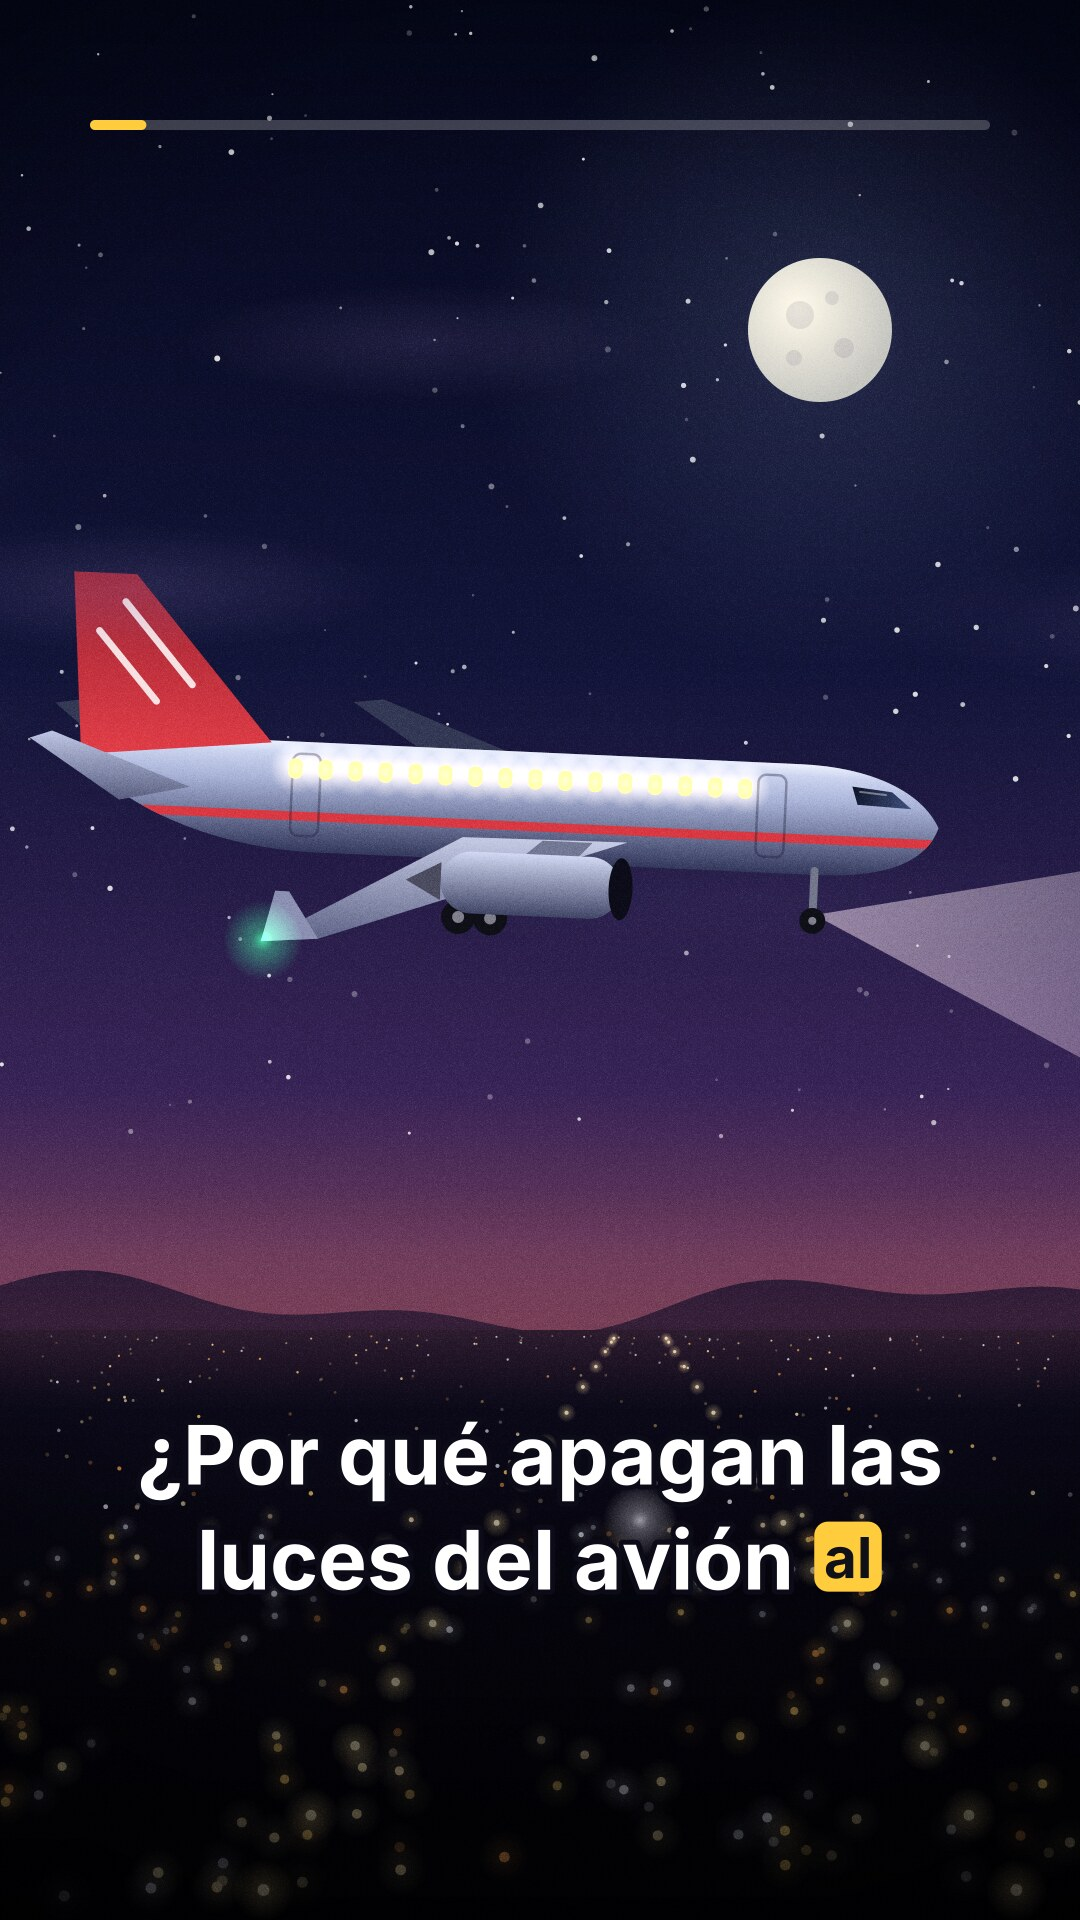
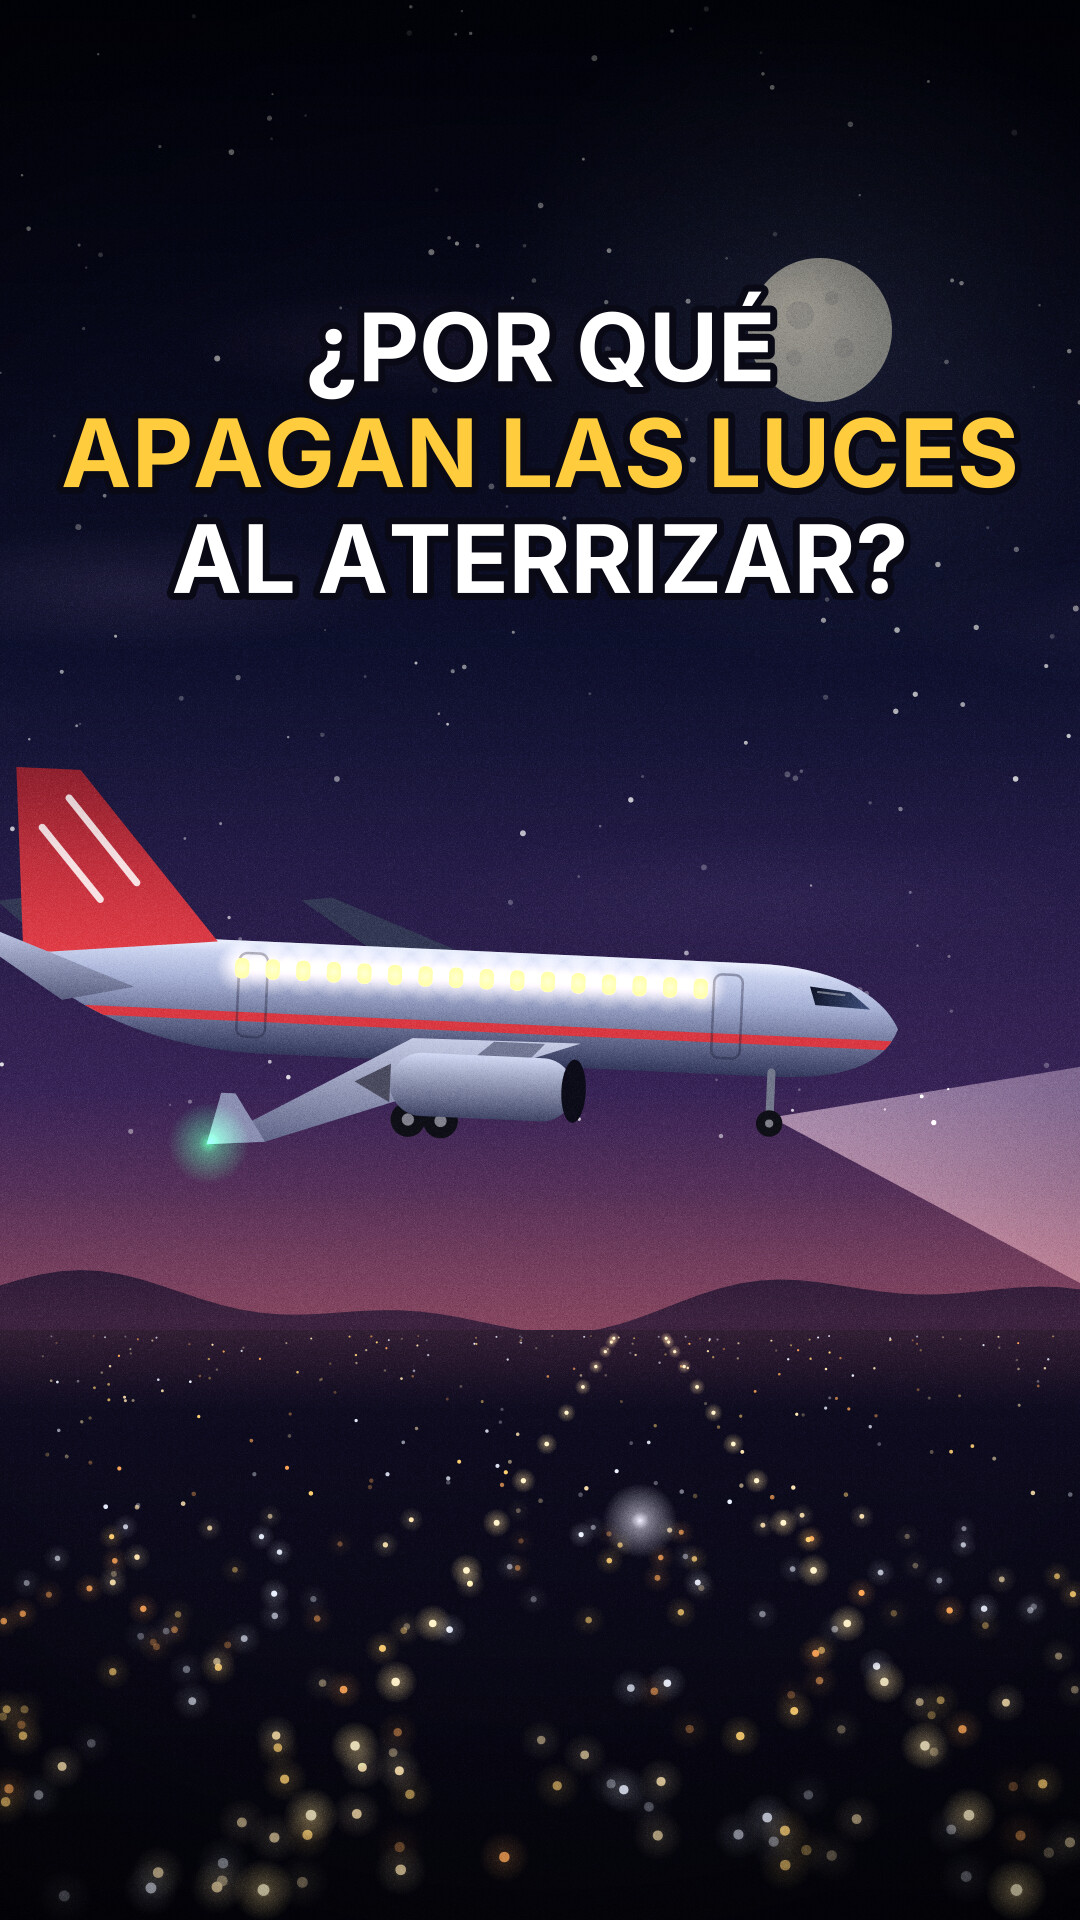
Añadir portadas con título, foto de perfil, kit del perfil y textos de los posts revisados
Claude-Session: https://claude.ai/code/session_01JYfv4g7AGpkwsmKFZgCm2X

diff --git a/video/portadas.py b/video/portadas.py
@@ -1,0 +1,130 @@
+"""Portadas de los vídeos (1080x1920) y foto de perfil (1080x1080).
+
+El título va dentro de la franja central 3:4 (y 240-1680), que es lo que enseña la cuadrícula del perfil.
+Uso: python3 video/portadas.py  ->  video/out/<vídeo>/portada.jpg y video/out/perfil/foto-perfil.png
+"""
+import math
+import os
+import subprocess
+
+import cairo
+
+import avion_luces as av
+import tierra_agujero as ti
+from engine import FONT, H, W
+from rich import YELLOW, glow, linear, make_grain, radial, text
+
+HERE = os.path.dirname(os.path.abspath(__file__))
+
+
+def finish(ctx, grain, w=W, h=H, top_shade=True):
+    """Viñeta, oscurecido arriba para el título y grano, como en los vídeos."""
+    ctx.rectangle(0, 0, w, h)
+    ctx.set_source(radial(w / 2, h * 0.5, max(w, h) * 0.62, [(0, (0, 0, 0, 0)), (0.6, (0, 0, 0, 0)), (1, (0, 0, 0, 0.55))]))
+    ctx.fill()
+    if top_shade:
+        ctx.rectangle(0, 0, w, h * 0.45)
+        ctx.set_source(linear(0, 0, 0, h * 0.45, [(0, (0, 0, 0, 0.55)), (0.7, (0, 0, 0, 0.25)), (1, (0, 0, 0, 0))]))
+        ctx.fill()
+    pat = cairo.SurfacePattern(grain)
+    pat.set_extend(cairo.EXTEND_REPEAT)
+    ctx.save()
+    ctx.set_operator(cairo.OPERATOR_SOFT_LIGHT)
+    ctx.set_source(pat)
+    ctx.paint_with_alpha(0.28)
+    ctx.restore()
+
+
+def title(ctx, lines, top, max_w=960, max_size=124):
+    """lines: [(texto, resaltado)]. Un solo tamaño para todas las líneas, el mayor que quepa."""
+    ctx.select_font_face(FONT, cairo.FONT_SLANT_NORMAL, cairo.FONT_WEIGHT_BOLD)
+    ctx.set_font_size(100)
+    widest = max(ctx.text_extents(s).x_advance for s, _ in lines)
+    size = min(max_size, 100 * max_w / widest)
+    y = top + size / 2
+    for s, hi in lines:
+        text(ctx, s, W / 2, y + 6, size, col=(0, 0, 0, 0.45))
+        text(ctx, s, W / 2, y, size, col=YELLOW if hi else (1, 1, 1), outline=(0.04, 0.04, 0.09), ow=14)
+        y += size * 1.12
+
+
+def save_jpg(surf, path):
+    png = path.replace(".jpg", ".png")
+    surf.write_to_png(png)
+    subprocess.run(["convert", png, "-quality", "90", path], check=True)
+    os.remove(png)
+
+
+def cover_tierra(grain):
+    surf = cairo.ImageSurface(cairo.FORMAT_ARGB32, W, H)
+    ctx = cairo.Context(surf)
+    t = 2.6
+    ti.space(ctx, t)
+    ctx.save()
+    ctx.translate(0, 300)
+    ti.section(ctx, t)
+    ti.faller(ctx, t, 0.95)
+    ctx.restore()
+    finish(ctx, grain)
+    title(ctx, [("¿Y SI SALTAS", False), ("POR UN AGUJERO", False), ("QUE ATRAVIESA", False), ("LA TIERRA?", True)], 270)
+    save_jpg(surf, os.path.join(HERE, "out", "tierra-agujero", "portada.jpg"))
+
+
+def cover_avion(grain):
+    surf = cairo.ImageSurface(cairo.FORMAT_ARGB32, W, H)
+    ctx = cairo.Context(surf)
+    t = 1.8
+    av.sky(ctx, t)
+    av.clouds(ctx, t)
+    av.ground(ctx, t, drift=t * 40)
+    av.runway(ctx, t)
+    av.plane(ctx, t, 470, 1010, s=1.02, rot=0.045)
+    av.clouds(ctx, t, front=True)
+    finish(ctx, grain)
+    title(ctx, [("¿POR QUÉ", False), ("APAGAN LAS LUCES", True), ("AL ATERRIZAR?", False)], 300)
+    save_jpg(surf, os.path.join(HERE, "out", "avion-luces", "portada.jpg"))
+
+
+def avatar(grain, size=1080):
+    """Interrogación amarilla cuyo punto es la Tierra: se lee incluso a 110 px."""
+    surf = cairo.ImageSurface(cairo.FORMAT_ARGB32, size, size)
+    ctx = cairo.Context(surf)
+    c = size / 2
+    ctx.rectangle(0, 0, size, size)
+    ctx.set_source(radial(c, c * 0.9, size * 0.75, [(0, (0.10, 0.10, 0.28)), (1, (0.01, 0.01, 0.05))]))
+    ctx.fill()
+    for x, y, r, ph in ti.STARS[:90]:
+        ctx.new_sub_path()
+        ctx.arc(x * size / W, y * size / H, r * 0.8, 0, 2 * math.pi)
+        ctx.set_source_rgba(1, 1, 1, 0.25 + 0.4 * (0.5 + 0.5 * math.sin(ph)))
+        ctx.fill()
+    glow(ctx, c, c * 0.80, size * 0.46, (1.0, 0.75, 0.2), 0.40, add=True)
+    # cuerpo de la interrogación
+    ctx.select_font_face(FONT, cairo.FONT_SLANT_NORMAL, cairo.FONT_WEIGHT_BOLD)
+    fs = size * 0.80
+    ctx.set_font_size(fs)
+    ext = ctx.text_extents("?")
+    ctx.save()
+    ctx.rectangle(0, 0, size, size * 0.64)  # sin el punto: lo sustituye el planeta
+    ctx.clip()
+    ctx.move_to(c - ext.x_advance / 2 - ext.x_bearing * 0.2, size * 0.78)
+    ctx.text_path("?")
+    ctx.set_source(linear(0, size * 0.18, 0, size * 0.64, [(0, (1.0, 0.93, 0.55)), (1, (1.0, 0.74, 0.16))]))
+    ctx.fill_preserve()
+    ctx.set_source_rgba(0.04, 0.04, 0.09, 1)
+    ctx.set_line_width(size * 0.012)
+    ctx.stroke()
+    ctx.restore()
+    ti.globe(ctx, 0.0, c + size * 0.005, size * 0.775, size * 0.10, rot=-10)
+    finish(ctx, grain, size, size, top_shade=False)
+    out = os.path.join(HERE, "out", "perfil")
+    os.makedirs(out, exist_ok=True)
+    surf.write_to_png(os.path.join(out, "foto-perfil.png"))
+
+
+if __name__ == "__main__":
+    grain, _keep = make_grain()
+    cover_tierra(grain)
+    cover_avion(grain)
+    avatar(grain)
+    print("OK")

diff --git a/video/tierra_agujero.py b/video/tierra_agujero.py
@@ -580,15 +580,15 @@ SCENES = [
     Scene("Síguenos para más curiosidades como esta.", s_cta, sfx=[(0.05, "pop"), (1.3, "pop")]),
 ]
 
-POST = """¿Qué pasaría si saltaras por un agujero que atraviesa la Tierra? 🌍🕳
+POST = """¿Y si saltaras por un agujero que atraviesa la Tierra? 🌍
 
-Sin aire que te frene, caerías cada vez más rápido y cruzarías el centro a más de 28.000 km/h. Allí no pesarías nada. Después irías frenando hasta asomar justo al otro lado… unos 38 minutos después. Y si nadie te agarra, volverías a caer una y otra vez.
+Caerías unos 38 minutos, cruzarías el centro a más de 28.000 km/h y asomarías justo por el otro lado… si no hubiera aire en el túnel. Y si nadie te agarra, volverías a caer una y otra vez.
 
-El problema: el agujero más profundo que hemos hecho, el pozo de Kola, solo llega a 12 km de los 6.371 que hay hasta el centro. Y allí abajo hace tanto calor como en la superficie del Sol.
+El problema: el agujero más profundo que existe, el pozo de Kola, solo llega a 12 km. Hasta el centro hay 6.371.
 
-Síguenos para más curiosidades 👀
+¿Te tirarías? 👇
 
-#curiosidades #ciencia #sabiasque #fisica #datoscuriosos
+#curiosidades #ciencia #fisica #espacio #sabiasque
 """
 
 if __name__ == "__main__":

diff --git a/video/avion_luces.py b/video/avion_luces.py
@@ -701,13 +701,13 @@ SCENES = [
 
 POST = """¿Por qué apagan las luces del avión al aterrizar de noche? ✈
 
-No es para que duermas: si hubiera que evacuar, tus ojos ya estarían acostumbrados a la oscuridad. Si la luz se apaga de golpe, tardan varios minutos en adaptarse.
+No es para que duermas. Si hubiera que evacuar, tus ojos ya estarían acostumbrados a la oscuridad: si la luz se va de golpe, tardan varios minutos en adaptarse.
 
-Por eso también te piden subir la persiana: así se ve si fuera hay algún peligro. Y las luces del suelo marcan el camino hasta la salida.
+Por eso también te piden subir la persiana, para ver si hay algún peligro fuera. Y las luces del suelo marcan el camino hasta la salida.
 
-Síguenos para más curiosidades 👀
+¿Lo sabías? 👇
 
-#curiosidades #sabiasque #aviones #viajar #datoscuriosos
+#curiosidades #aviones #viajar #sabiasque #datoscuriosos
 """
 
 if __name__ == "__main__":

diff --git a/video/README.md b/video/README.md
@@ -9,6 +9,8 @@ Vídeos verticales (1080x1920) con dibujos animados a mano y subtítulos palabra
   con `--preview <png>` saca una hoja con un fotograma por escena en 3 segundos.
 - `tierra_agujero.py`: ¿qué pasaría si saltaras por un agujero que atraviesa la Tierra? → `video/out/tierra-agujero/`.
 
+- `portadas.py`: portadas diseñadas (título dentro de la franja 3:4 del perfil) y foto de perfil → `video/out/perfil/`.
+
 Requisitos: `ffmpeg`, `pip install pycairo numpy`.
 
 ## Voz en off
